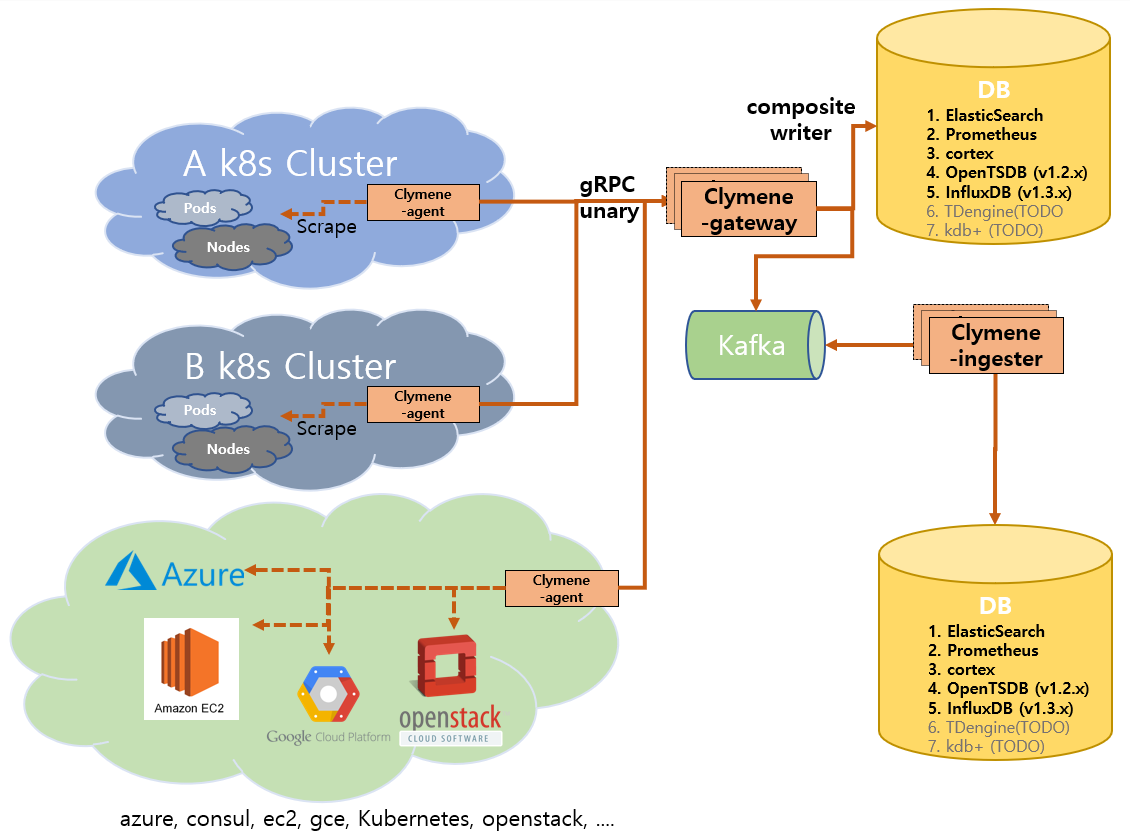
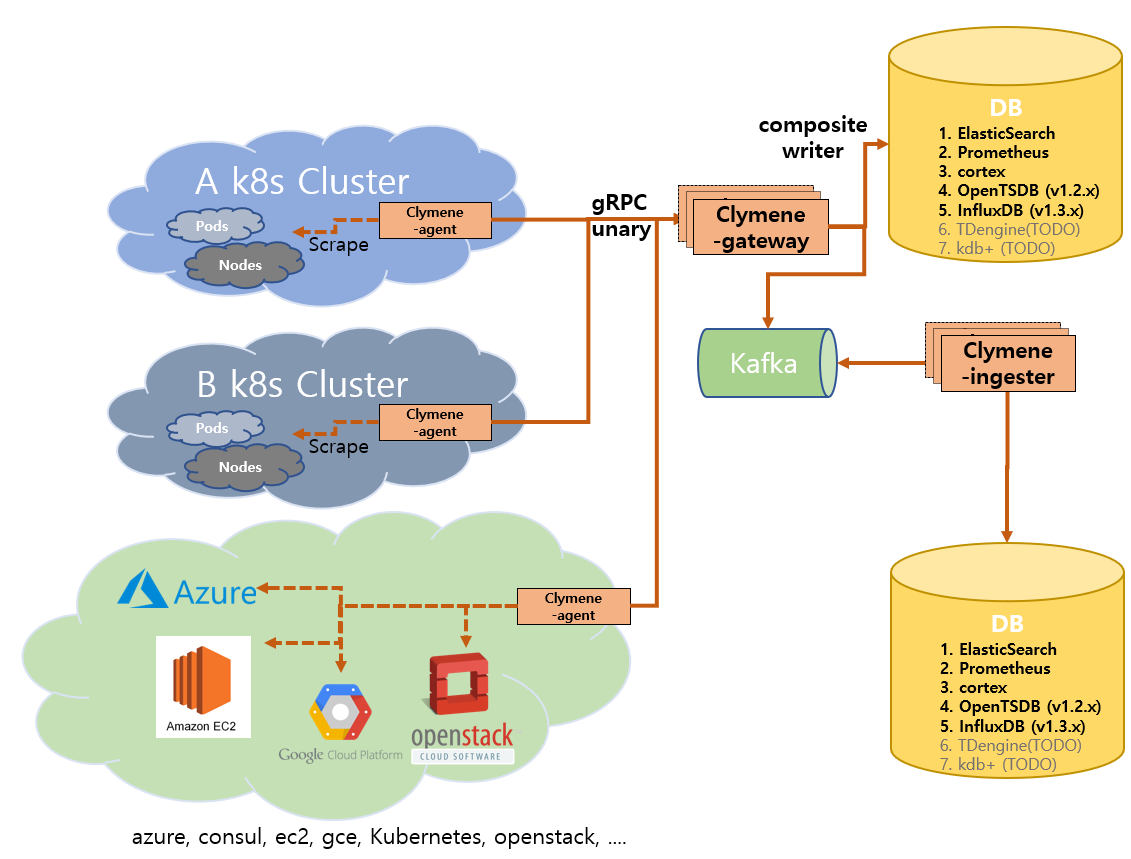
#10 | influxdb is now officially supported

Changed region(s): [[0.0, 0.0, 1.0, 0.9917], [0.0929, 0.8987, 0.1549, 0.9297], [0.4646, 0.6198, 0.4956, 0.6508]]

diff --git a/plugin/storage/influxdb/options.go b/plugin/storage/influxdb/options.go
@@ -18,6 +18,7 @@ package influxdb
 
 import (
 	"flag"
+	"fmt"
 	"github.com/Clymene-project/Clymene/pkg/config/tlscfg"
 	influxdb2 "github.com/influxdata/influxdb-client-go/v2"
 	"github.com/spf13/viper"
@@ -33,9 +34,10 @@ const (
 	writePrefix  = ".write"
 	httpPrefix   = ".http"
 
-	suffixUrl   = ".url"
-	suffixToken = ".token"
-	suffixOrg   = ".org"
+	suffixUrl    = ".url"
+	suffixToken  = ".token"
+	suffixOrg    = ".org"
+	suffixBucket = ".bucket"
 
 	// writeOptions
 	suffixBatchSize        = writePrefix + ".batch-size"
@@ -50,9 +52,10 @@ const (
 	suffixMaxRetryTime     = writePrefix + ".max-retry-time"
 	suffixExponentialBase  = writePrefix + ".exponential-base"
 
-	defaultUrl   = "http://localhost:8086"
-	defaultToken = ""
-	defaultOrg   = ""
+	defaultUrl    = "http://localhost:8086"
+	defaultToken  = ""
+	defaultOrg    = ""
+	defaultBucket = ""
 
 	// writeOptions
 	defaultBatchSize        = 5_000
@@ -79,9 +82,10 @@ var tlsFlagsConfig = tlscfg.ClientFlagsConfig{
 }
 
 type Options struct {
-	url   string
-	token string
-	org   string
+	url    string
+	token  string
+	org    string
+	bucket string
 
 	influxdb2.Options
 	TLS tlscfg.Options
@@ -101,7 +105,12 @@ func (o *Options) AddFlags(flagSet *flag.FlagSet) {
 	flagSet.String(
 		configPrefix+suffixOrg,
 		defaultOrg,
-		"Pass as orgID in the request body",
+		"influx organization, An organization is a workspace for a group of users.",
+	)
+	flagSet.String(
+		configPrefix+suffixBucket,
+		defaultBucket,
+		"influx bucket, A bucket is a named location where time series data is stored",
 	)
 	flagSet.Uint(
 		configPrefix+suffixBatchSize,
@@ -170,7 +179,7 @@ func (o *Options) InitFromViper(v *viper.Viper) {
 	o.url = v.GetString(configPrefix + suffixUrl)
 	o.token = v.GetString(configPrefix + suffixToken)
 	o.org = v.GetString(configPrefix + suffixOrg)
-	o.Options = influxdb2.Options{}
+	o.bucket = v.GetString(configPrefix + suffixBucket)
 
 	// writeOptions
 	o.SetBatchSize(v.GetUint(configPrefix + suffixBatchSize))
@@ -200,4 +209,17 @@ func (o *Options) makeTags(StringTags string) {
 		splitTag := strings.Split(tag, "=")
 		o.AddDefaultTag(splitTag[0], splitTag[1])
 	}
+}
+
+func (o *Options) checkNecessaryOptions() error {
+	if o.bucket == "" {
+		return fmt.Errorf("influxdb bucket is not set, it is necessary")
+	}
+	if o.token == "" {
+		return fmt.Errorf("influxdb token is not set, it is necessary")
+	}
+	if o.org == "" {
+		return fmt.Errorf("influxdb org is not set, it is necessary")
+	}
+	return nil
 }

diff --git a/plugin/storage/influxdb/factory.go b/plugin/storage/influxdb/factory.go
@@ -23,6 +23,8 @@ import (
 	"github.com/spf13/viper"
 	"github.com/uber/jaeger-lib/metrics"
 	"go.uber.org/zap"
+	"net/http"
+	"time"
 )
 
 type Factory struct {
@@ -36,23 +38,28 @@ type Factory struct {
 func (f *Factory) Initialize(metricsFactory metrics.Factory, logger *zap.Logger) error {
 	f.metricsFactory, f.logger = metricsFactory, logger
 	logger.Info("Factory Initialize", zap.String("type", "influxdb"))
-
 	if f.options.TLS.Enabled {
-		tls, err := f.options.TLS.Config(logger)
+		tls, err := f.options.TLS.Config(f.logger)
 		if err != nil {
-			logger.Panic("please check TLS Setting", zap.Error(err))
+			return err
 		}
 		f.options.Options.SetTLSConfig(tls)
 	}
+	f.options.SetHTTPClient(
+		&http.Client{
+			Transport: newLatencyTransport(http.DefaultTransport, metricsFactory),
+			Timeout:   time.Second * time.Duration(f.options.HTTPRequestTimeout()),
+		})
+	err := f.options.checkNecessaryOptions()
+	if err != nil {
+		return err
+	}
 	f.client = influxdb2.NewClientWithOptions(f.options.url, f.options.token, &f.options.Options)
-
-	//client.
 	return nil
 }
 
 func (f *Factory) CreateWriter() (metricstore.Writer, error) {
-	//TODO implement me
-	panic("implement me")
+	return NewMetricWriter(f.logger, f.client, f.options.org, f.options.bucket), nil
 }
 
 func NewFactory() *Factory {
@@ -74,4 +81,30 @@ func (f *Factory) InitFromViper(v *viper.Viper) {
 // InitFromOptions initializes factory from options.
 func (f *Factory) InitFromOptions(o Options) {
 	f.options = o
+}
+
+type latencyTransport struct {
+	transport http.RoundTripper
+	latency   metrics.Timer
+	errors    metrics.Counter
+}
+
+func (l *latencyTransport) RoundTrip(request *http.Request) (*http.Response, error) {
+	now := time.Now()
+	resp, err := l.transport.RoundTrip(request)
+	if err != nil {
+		l.errors.Inc(1)
+		return resp, err
+	}
+	l.latency.Record(time.Since(now))
+	return resp, err
+}
+
+func newLatencyTransport(t http.RoundTripper, f metrics.Factory) http.RoundTripper {
+	m := f.Namespace(metrics.NSOptions{Name: "influxdb", Tags: nil})
+	return &latencyTransport{
+		transport: t,
+		latency:   m.Timer(metrics.TimerOptions{Name: "latency", Tags: nil}),
+		errors:    m.Counter(metrics.Options{Name: "errors", Tags: nil}),
+	}
 }

diff --git a/plugin/storage/influxdb/metricstore/dbmodel/convert.go b/plugin/storage/influxdb/metricstore/dbmodel/convert.go
@@ -14,36 +14,34 @@
  * limitations under the License.
  */
 
-package influxdb
+package dbmodel
 
 import (
-	"github.com/Clymene-project/Clymene/plugin/storage/influxdb/metricstore/dbmodel"
 	"github.com/Clymene-project/Clymene/prompb"
 	influxdb2 "github.com/influxdata/influxdb-client-go/v2"
-	"github.com/influxdata/influxdb-client-go/v2/api"
+	"github.com/influxdata/influxdb-client-go/v2/api/write"
 	"go.uber.org/zap"
+	"time"
 )
 
-type MetricWriter struct {
-	logger    *zap.Logger
-	client    api.WriteAPI
-	converter dbmodel.Converter
+type Converter struct {
+	Logger *zap.Logger
 }
 
-// WriteMetric is Asynchronous writer, and it is bulk insert
-func (m *MetricWriter) WriteMetric(metrics []prompb.TimeSeries) error {
-	for _, metric := range metrics {
-		m.client.WritePoint(m.converter.ConvertTsToPoint(metric))
+func (c *Converter) ConvertTsToPoint(metric prompb.TimeSeries) *write.Point {
+	tags := make(map[string]string)
+	for _, label := range metric.Labels {
+		tags[label.Name] = label.Value
 	}
-	return nil
+	field := make(map[string]interface{})
+	var timestamp int64
+	for _, sample := range metric.Samples {
+		timestamp = sample.Timestamp
+		field["value"] = sample.Value
+	}
+	return influxdb2.NewPoint(tags["__name__"], tags, field, c.timestampMsToTime(timestamp))
 }
 
-func NewMetricWriter(l *zap.Logger, client influxdb2.Client, org string, bucket string) *MetricWriter {
-	return &MetricWriter{
-		logger: l,
-		client: client.WriteAPI(org, bucket),
-		converter: dbmodel.Converter{
-			Logger: l,
-		},
-	}
+func (c *Converter) timestampMsToTime(ms int64) time.Time {
+	return time.Unix(0, ms*int64(time.Millisecond))
 }

diff --git a/plugin/storage/es/writer.go b/plugin/storage/es/writer.go
@@ -29,16 +29,16 @@ const (
 )
 
 type MetricWriter struct {
-	client      es.Client
 	logger      *zap.Logger
+	client      es.Client
 	metricIndex string
 	converter   dbmodel.Converter
 }
 
 // MetricWriterParams holds constructor parameters for NewMetricWriter
 type MetricWriterParams struct {
-	Client      es.Client
 	Logger      *zap.Logger
+	Client      es.Client
 	IndexPrefix string
 	Archive     bool
 }

diff --git a/README.md b/README.md
@@ -21,22 +21,21 @@ Clymene는 [Prometheus](https://prometheus.io)와 [Jaeger](https://www.jaegertra
 Agent can store time series data in a variety of DBs and support Composite Writers that can be stored in multiple DBs at
 once.
 
-[//]: # (![Release_1.0.0.png]&#40;docs/images/clymene_architecture_v1.0.0_composite.png&#41;)
-<img src="docs/images/clymene_v1.2.0.png" width="60%" height="60%" alt="architecture_v1.2.0">
+<img src="docs/images/v1.3.0/agent-v1.3.0.png" width="70%" height="70%" alt="architecture_v1.3.0">
 
 ### Including kafka and ingester
 
 Ingester consumes time series data loaded on kafka, can store time series data in various DBs, and supports Composite
 Writers that can be stored in multiple DBs at once.
 
-<img src="docs/images/clymene_kafka_v1.2.0.png" width="60%" height="60%" alt="architecture_v1.2.0_ingester">  
+<img src="docs/images/v1.3.0/ingester-v1.3.0.png" width="70%" height="70%" alt="architecture_v1.3.0_ingester">  
 
 ### Use gateway
 
 Gateway collects time series data through gRPC communication, stores time series data in various DBs, and supports
 Composite Writers that can be stored in multiple DBs at once.
 
-<img src="docs/images/clymene_gateway_v1.2.0.png" width="60%" height="60%" alt="architecture_v1.2.0_gateway">
+<img src="docs/images/v1.3.0/gateway-v1.3.0.png" width="70%" height="70%" alt="architecture_v1.3.0_gateway">
 
 # components
 
@@ -53,7 +52,7 @@ The Clymene-agent is service that collects time series data(does not use disks)
 2. scrape time series data
 3. Time-series data transfer to gateway(gRPC) (Optional)
 4. Time-series data transfer to kafka (Optional)
-5. Time-series data insert to Database(ElasticSearch, Prometheus, cortex, gateway, Opentsdb) (Optional)
+5. Time-series data insert to Database([supported DB](https://github.com/Clymene-project/Clymene/blob/main/docs/clymene-agent/README.md#Option-description-by-storage-type)) (Optional)
 
 ### Clymene Ingester(Optional) ([Getting Started](https://github.com/Clymene-project/Clymene/blob/main/docs/clymene-ingester/README.md))
 
@@ -63,7 +62,7 @@ The Clymene-agent is service that collects time series data(does not use disks)
 The Clymene ingester is an optional service responsible for insert time series data loaded on kafka into the database.
 
 1. Kafka message consume
-2. Time-series data insert to Database(ElasticSearch, Prometheus, cortex, gateway, Opentsdb) (Optional)
+2. Time-series data insert to Database([supported DB](https://github.com/Clymene-project/Clymene/blob/main/docs/clymene-ingester/README.md#Option-description-by-storage-type)) (Optional)
 
 ### Clymene Gateway(Optional) ([Getting Started](https://github.com/Clymene-project/Clymene/blob/main/docs/clymene-gateway/README.md))
 
@@ -74,7 +73,7 @@ The Clymene Gateway is an optional service that can receive metric data from the
 communication.
 
 1. gRPC Service
-2. Time-series data insert to Database(ElasticSearch, Prometheus, cortex, Opentsdb) (Optional)
+2. Time-series data insert to Database([supported DB](https://github.com/Clymene-project/Clymene/blob/main/docs/clymene-gateway/README.md#Option-description-by-storage-type)) (Optional)
 
 ## How to work it on k8s
 
@@ -88,7 +87,7 @@ the [docker-compose-clymene_using_gateway.yml](https://github.com/Clymene-projec
 
 ## Roadmap
 
-1. Various DB support(influxdb, kdb, druid)
+1. Various DB support(ElasticSearch, Prometheus, Cortex, OpenTSDB, influxdb, TDengine, kdb, druid)
 2. AI/ML platform for clymene(https://github.com/Clymene-project/clymene-analyzer)
 3. Website development for clymene(https://github.com/Clymene-project/documentation)
 

diff --git a/docs/clymene-ingester/influxdb/influxdb-options.md b/docs/clymene-ingester/influxdb/influxdb-options.md
@@ -12,8 +12,9 @@ Clymene-ingester [flags]
 --admin.http.host-ports string                  The host:ports (e.g. 127.0.0.1:15694 or :15694) for the admin server, including health check, /metrics, etc. (default ":15694")
 --clymene-ingester.deadlockInterval duration    Interval to check for deadlocks. If no messages gets processed in given time, clymene-ingester app will exit. Value of 0 disables deadlock check. (default 0s)
 --clymene-ingester.parallelism string           The number of messages to process in parallel (default "1000")
+--influxdb.bucket string                        influx bucket, A bucket is a named location where time series data is stored
 --influxdb.http.http-request-timeout duration   HTTP request timeout in sec (default 10s)
---influxdb.org string                           Pass as orgID in the request body
+--influxdb.org string                           influx organization, An organization is a workspace for a group of users.
 --influxdb.tls.ca string                        Path to a TLS CA (Certification Authority) file used to verify the remote server(s) (by default will use the system truststore)
 --influxdb.tls.cert string                      Path to a TLS Certificate file, used to identify this process to the remote server(s)
 --influxdb.tls.enabled                          Enable TLS when talking to the remote server(s)

diff --git a/docs/clymene-gateway/influxdb/influxdb-options.md b/docs/clymene-gateway/influxdb/influxdb-options.md
@@ -15,8 +15,9 @@ Clymene-gateway [flags]
 --gateway.grpc.tls.client-ca string             Path to a TLS CA (Certification Authority) file used to verify certificates presented by clients (if unset, all clients are permitted)
 --gateway.grpc.tls.enabled                      Enable TLS on the server
 --gateway.grpc.tls.key string                   Path to a TLS Private Key file, used to identify this server to clients
+--influxdb.bucket string                        influx bucket, A bucket is a named location where time series data is stored
 --influxdb.http.http-request-timeout duration   HTTP request timeout in sec (default 10s)
---influxdb.org string                           Pass as orgID in the request body
+--influxdb.org string                           influx organization, An organization is a workspace for a group of users.
 --influxdb.tls.ca string                        Path to a TLS CA (Certification Authority) file used to verify the remote server(s) (by default will use the system truststore)
 --influxdb.tls.cert string                      Path to a TLS Certificate file, used to identify this process to the remote server(s)
 --influxdb.tls.enabled                          Enable TLS when talking to the remote server(s)

diff --git a/docs/clymene-agent/influxdb/influxdb-options.md b/docs/clymene-agent/influxdb/influxdb-options.md
@@ -16,8 +16,9 @@ clymene-agent [flags]
 --admin.http.host-ports string                  The host:ports (e.g. 127.0.0.1:15691 or :15691) for the admin server, including health check, /metrics, etc. (default ":15691")
 --config.file string                            configuration file path. (default "/etc/clymene/clymene.yml")
 --http.port int                                 http port (default 15692)
+--influxdb.bucket string                        influx bucket, A bucket is a named location where time series data is stored
 --influxdb.http.http-request-timeout duration   HTTP request timeout in sec (default 10s)
---influxdb.org string                           Pass as orgID in the request body
+--influxdb.org string                           influx organization, An organization is a workspace for a group of users.
 --influxdb.tls.ca string                        Path to a TLS CA (Certification Authority) file used to verify the remote server(s) (by default will use the system truststore)
 --influxdb.tls.cert string                      Path to a TLS Certificate file, used to identify this process to the remote server(s)
 --influxdb.tls.enabled                          Enable TLS when talking to the remote server(s)

diff --git a/CHANGELOG.md b/CHANGELOG.md
@@ -1,6 +1,22 @@
 Changes by Version
 ==================
 
+
+
+
+1.3.0 (2022-01-08)
+-----------------
+influxdb is now officially supported. The options below are mandatory.
+```
+--influxdb.bucket string    influx bucket, A bucket is a named location where time series data is stored
+--influxdb.org string       influx organization, An organization is a workspace for a group of users.
+--influxdb.token string     Use the Authorization header and the Token scheme
+```
+TDengin support has been added to the roadmap.
+
+- influxdb option (TS_STORAGE_TYPE=influxdb)
+- [Influxdb option](./docs/clymene-agent/influxdb/influxdb-options.md)
+
 1.2.1 (2022-01-01)
 -----------------
 Separate the prometheus option and the cortex option to block confusion
